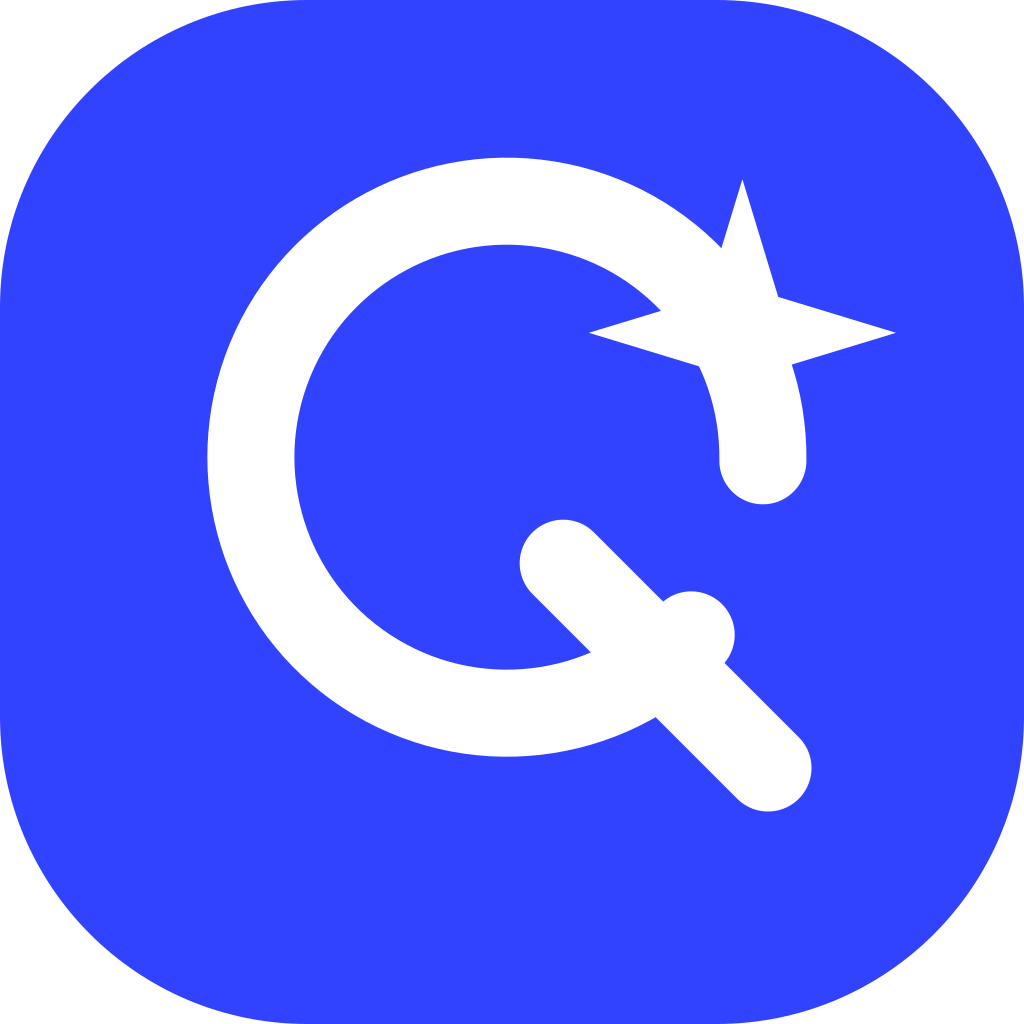
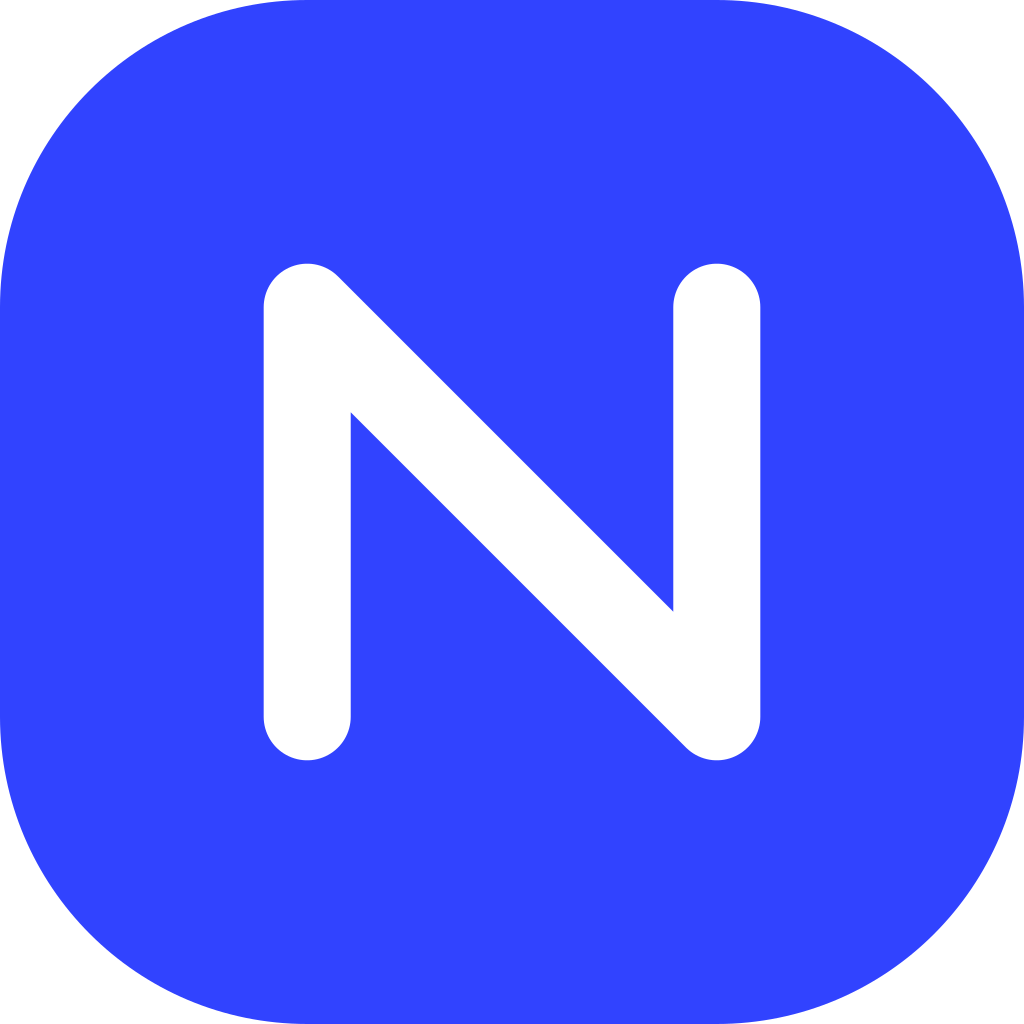
feat(ui): 启用 Nook 界面品牌并精简首页与项目说明

Changed region(s): [[0.1875, 0.1562, 0.875, 0.8125]]

diff --git a/workbench/workbench.tsx b/workbench/workbench.tsx
@@ -92,7 +92,7 @@ export function Workbench() {
   const running = thread?.messages.some((message) => message.status === 'running') ?? false;
   const recent = state ? searchThreads(state.threads.filter((item) => !item.archived), '') : [];
   useEffect(() => {
-    if (!window.qiyao) { report(new Error('请通过 Qiyao 桌面应用打开工作台。')); return; }
+    if (!window.qiyao) { report(new Error('请通过 Nook 桌面应用打开工作台。')); return; }
     const resolved = new Set<string>();
     void window.qiyao.load().then((next) => { setState(next); draftStore.current.initialize(next.composerDrafts); const active = next.threads.find((item) => item.id === next.activeThreadId); const restored = restoreComposer(next, active, draftStore.current.get(active?.id)); draftRef.current = restored; setComposerDraft(restored); }).catch(report);
     void window.qiyao.pendingApprovals().then((pending) => setApprovals((current) => [...current, ...pending.filter((item) => !resolved.has(item.id) && !current.some((known) => known.id === item.id))])).catch(report);
@@ -244,10 +244,10 @@ export function Workbench() {
   const composer = state && <Composer temporary={thread?.temporary} promptTemplates={state.promptTemplates} onPrompt={insertPrompt} key={threadId || 'new'} importContext={`${draftEpoch.current}/${threadId}`} messages={thread?.messages ?? []} attachments={attachments} onAttachments={(files) => updateDraft({ attachments: files })} knowledgeCollections={state.knowledgeCollections} hasNotes={state.notes.length > 0} knowledgeCollectionIds={knowledgeCollectionIds} onKnowledgeCollections={setKnowledgeCollectionIds} plugins={state.plugins} pluginIds={pluginIds} onPlugins={setPluginIds} servers={state.mcpServers} skills={state.skills} serverIds={serverIds} skillIds={skillIds} onServers={setServerIds} onSkills={setSkillIds} providers={state.providers} assistants={state.assistants} projects={state.projects} providerId={providerId} model={model} assistantId={assistantId} projectId={projectId} mode={mode} onMode={setMode} text={text} onText={setText} onProvider={(id) => { setProviderId(id); setModel(state.providers.find((item) => item.id === id)?.models[0] ?? ''); }} onModel={setModel} onAssistant={setAssistantId} onProject={(id) => { setProjectId(id); if (!id) setMode('chat'); }} onSend={send} onStop={() => { void window.qiyao.stop(threadId).catch(report); }} running={running} enterToSend={state.preferences.enterToSend} onCompare={() => setComparison({ draft: structuredClone(draftRef.current), source: thread && structuredClone(thread) })} onViewComparison={thread?.comparison ? () => setComparison({ draft: structuredClone(draftRef.current), source: structuredClone(thread), groupId: thread.comparison!.groupId }) : undefined} onConfigure={() => setSettings(true)} report={report} />;
   const library = state && <KnowledgeLibrary state={state} onState={setState} report={report} onUse={(type, id) => { if (type === 'collection') { newChat(); setKnowledgeCollectionIds([id]); } else { const note = state.notes.find((item) => item.id === id); if (!note) return; const next = `请参考以下资料回答我的问题：\n\n${note.title}\n${note.content}\n\n我的问题：`; if (next.length > 256_000) { report(new Error('这份资料较长，请使用资料集检索并输入问题。')); return; } newChat(); setText(next); } }} />;
   return <div className={`app-shell ${sidebar ? '' : 'sidebar-hidden'}`}>
-    <header className="window-chrome"><div className="window-title"><Emblem size={20} /><span>Qiyao</span></div><div className="window-actions"><IconButton icon="minimize" label="最小化" onClick={() => { void window.qiyao.windowAction('minimize'); }} /><IconButton icon="maximize" label="最大化或还原" onClick={() => { void window.qiyao.windowAction('maximize'); }} /><IconButton icon="close" label="关闭窗口" onClick={() => { void window.qiyao.windowAction('close'); }} /></div></header>
-    {sidebar && <aside className="sidebar"><div className="sidebar-brand"><Emblem size={32} /><div><strong>栖曜</strong><span>你的 AI 工作台</span></div><IconButton icon="panel" label="收起侧边栏" onClick={() => setSidebar(false)} /></div><div className="sidebar-main"><nav className="primary-nav"><Button className={page === 'chat' && !threadId ? 'nav-row selected' : 'nav-row'} onClick={newChat}><Glyph name="compose" />新聊天<kbd>Ctrl N</kbd></Button><Button className="nav-row" disabled={!state || startingTemporary} onClick={() => { void newTemporaryChat(); }}><Glyph name="compose" />临时聊天</Button><Button className="nav-row" onClick={() => setSearch('')}><Glyph name="search" />搜索聊天<kbd>Ctrl K</kbd></Button>{navigation.map((item) => <Button key={item.page} className={`nav-row ${page === item.page ? 'selected' : ''}`} onClick={() => setPage(item.page)}><Glyph name={item.icon} />{item.label}</Button>)}</nav><div className="sidebar-section-label">最近聊天<span>{recent.length || ''}</span></div><div className="thread-list">{recent.slice(0, 100).map((item) => <Button key={item.id} className={`thread-row ${threadId === item.id && page === 'chat' ? 'selected' : ''}`} onClick={() => openThread(item)}>{item.pinned && <Glyph name="pin" size={12} />}<span>{item.temporary ? `临时 · ${item.title}` : item.title}</span>{item.messages.some((message) => message.status === 'running') && <span className="stream-dot" />}</Button>)}{recent.length === 0 && <p className="sidebar-empty">开始第一段对话，<br />想法会留在这里。</p>}</div></div><footer className="sidebar-footer"><Button className="nav-row" onClick={() => setPage('archive')}><Glyph name="archive" />已归档</Button><Button className="nav-row" onClick={() => setSettings(true)}><Glyph name="settings" />设置<kbd>Ctrl ,</kbd></Button><div className="local-indicator"><span className="status-dot" />本地工作台<span>QIYAO</span></div></footer></aside>}
+    <header className="window-chrome"><div className="window-title"><Emblem size={20} /><span>Nook</span></div><div className="window-actions"><IconButton icon="minimize" label="最小化" onClick={() => { void window.qiyao.windowAction('minimize'); }} /><IconButton icon="maximize" label="最大化或还原" onClick={() => { void window.qiyao.windowAction('maximize'); }} /><IconButton icon="close" label="关闭窗口" onClick={() => { void window.qiyao.windowAction('close'); }} /></div></header>
+    {sidebar && <aside className="sidebar"><div className="sidebar-brand"><Emblem size={32} /><div><strong>Nook</strong></div><IconButton icon="panel" label="收起侧边栏" onClick={() => setSidebar(false)} /></div><div className="sidebar-main"><nav className="primary-nav"><Button className={page === 'chat' && !threadId ? 'nav-row selected' : 'nav-row'} onClick={newChat}><Glyph name="compose" />新聊天<kbd>Ctrl N</kbd></Button><Button className="nav-row" disabled={!state || startingTemporary} onClick={() => { void newTemporaryChat(); }}><Glyph name="compose" />临时聊天</Button><Button className="nav-row" onClick={() => setSearch('')}><Glyph name="search" />搜索聊天<kbd>Ctrl K</kbd></Button>{navigation.map((item) => <Button key={item.page} className={`nav-row ${page === item.page ? 'selected' : ''}`} onClick={() => setPage(item.page)}><Glyph name={item.icon} />{item.label}</Button>)}</nav><div className="sidebar-section-label">最近聊天<span>{recent.length || ''}</span></div><div className="thread-list">{recent.slice(0, 100).map((item) => <Button key={item.id} className={`thread-row ${threadId === item.id && page === 'chat' ? 'selected' : ''}`} onClick={() => openThread(item)}>{item.pinned && <Glyph name="pin" size={12} />}<span>{item.temporary ? `临时 · ${item.title}` : item.title}</span>{item.messages.some((message) => message.status === 'running') && <span className="stream-dot" />}</Button>)}{recent.length === 0 && <p className="sidebar-empty">暂无聊天</p>}</div></div><footer className="sidebar-footer"><Button className="nav-row" onClick={() => setPage('archive')}><Glyph name="archive" />已归档</Button><Button className="nav-row" onClick={() => setSettings(true)}><Glyph name="settings" />设置<kbd>Ctrl ,</kbd></Button><div className="local-indicator"><span className="status-dot" />本地工作台<span>NOOK</span></div></footer></aside>}
     <main className="workspace"><header className="workspace-header"><div>{!sidebar && <IconButton icon="panel" label="展开侧边栏" onClick={() => setSidebar(true)} />}{page === 'chat' ? thread ? <Button className="thread-title" title={thread.title} onClick={() => setRenaming(thread.title)}><span>{thread.title}</span><Glyph name="down" size={14} /></Button> : <span className="muted">新聊天</span> : <span>{page === 'plugin' ? panelPlugin?.manifest.panels.find((panel) => panel.id === pluginPanel.panelId)?.title ?? '插件面板' : navigation.find((item) => item.page === page)?.label ?? '已归档'}</span>}</div><div className="header-actions"><IconButton icon="search" label="打开命令面板" disabled={!state} onClick={() => setSearch('>')} />{page === 'chat' && thread && state && <><IconButton icon="find" label="查找当前聊天" onClick={() => setFindRequest((value) => value + 1)} />{originalThread && <IconButton icon="branch" label="打开原对话" onClick={() => openThread(originalThread)} />}<BranchNavigation onReorder={reorderBranch} key={thread.id} thread={thread} threads={state.threads} onSelect={async (id) => { await flushDrafts(); await openReplyVersion(id); }} /><IconButton icon="pin" label={thread.pinned ? '取消置顶' : '置顶聊天'} disabled={running} onClick={() => { void mutate({ ...thread, pinned: !thread.pinned }); }} /><IconButton icon="download" label="导出聊天" onClick={() => { void window.qiyao.exportThread(thread.id).catch(report); }} /><IconButton icon="archive" label={thread.archived ? '取消归档' : '归档聊天'} disabled={running} onClick={() => { void mutate({ ...thread, archived: !thread.archived }); }} /><IconButton icon="trash" label="删除聊天" disabled={running} onClick={() => setDeleteId(thread.id)} /></>}</div></header>
-    {!state ? <div className="startup"><Emblem size={56} /><p>{error || '正在打开你的工作台…'}</p></div> : page === 'chat' ? thread ? <div className="chat-page"><Transcript findRequest={findRequest} onFindClose={() => setFindRequest(0)} thread={thread} threads={state.threads} onVersion={openReplyVersion} onEdit={(message) => { void openMessageEditor(message).catch(report); }} onQuote={quote} onBranch={(message) => { void branch(message); }} onRetry={() => { void retry(); }} report={report} /><div className="composer-dock">{composer}</div></div> : <div className="home"><div className="home-content"><div className="home-mark"><Emblem size={48} /></div><h1>让想法，有处落地。</h1><p className="home-description">写作、研究、构建，在同一个工作台。</p>{composer}<div className="suggestions">{[{ icon: 'assistant', label: '理清一个想法', prompt: '我有一个想法，想请你帮我梳理。请先问我几个关键问题。' }, { icon: 'compose', label: '一起写点什么', prompt: '请帮我完善一段文字。我会提供初稿和希望的风格。' }, { icon: 'code', label: '开始一个项目', prompt: '我想开始一个新项目。请帮我明确需求，规划实现步骤。' }].map((item) => <Button key={item.label} onClick={() => setText(item.prompt)}><Glyph name={item.icon as GlyphName} size={16} />{item.label}</Button>)}</div></div><div className="home-footnote"><span>留给专注的空间。</span><span>Qiyao Workspace</span></div></div> : page === 'plugin' ? pluginContent : page === 'projects' ? <Projects view={projectView} onView={setProjectView} state={state} onState={setState} onUse={(id) => { newChat(); setProjectId(id); }} report={report} /> : page === 'library' ? library : page === 'automations' ? <AutomationsPage state={state} onState={setState} report={report} onOpen={setRequestedTaskThread} /> : page === 'assistants' ? <Collections onPrompt={insertPrompt} state={state} onState={setState} report={report} onUse={(id) => { newChat(); setAssistantId(id); }} /> : <div className="collection-page"><div className="page-heading"><div><h1>已归档</h1><p>为重要的对话留一个安静的地方。</p></div></div>{state.threads.filter((item) => item.archived).length ? state.threads.filter((item) => item.archived).map((item) => <div className="list-row" key={item.id}><Button className="row-content" onClick={() => openThread(item)}><strong>{item.title}</strong><span>{item.messages.length} 条消息</span></Button><Button onClick={() => { void mutate({ ...item, archived: false }); }}>恢复聊天</Button></div>) : <Empty icon="archive" title="暂无归档聊天" detail="归档后，对话会从最近聊天移到这里。" />}</div>}
+    {!state ? <div className="startup"><Emblem size={56} /><p>{error || '正在打开你的工作台…'}</p></div> : page === 'chat' ? thread ? <div className="chat-page"><Transcript findRequest={findRequest} onFindClose={() => setFindRequest(0)} thread={thread} threads={state.threads} onVersion={openReplyVersion} onEdit={(message) => { void openMessageEditor(message).catch(report); }} onQuote={quote} onBranch={(message) => { void branch(message); }} onRetry={() => { void retry(); }} report={report} /><div className="composer-dock">{composer}</div></div> : <div className="home"><div className="home-content"><h1>今天想做些什么？</h1><p className="home-description">提问、整理资料，或开始一个项目。</p>{composer}<div className="suggestions">{[{ icon: 'assistant', label: '理清一个想法', prompt: '我有一个想法，想请你帮我梳理。请先问我几个关键问题。' }, { icon: 'compose', label: '一起写点什么', prompt: '请帮我完善一段文字。我会提供初稿和希望的风格。' }, { icon: 'code', label: '开始一个项目', prompt: '我想开始一个新项目。请帮我明确需求，规划实现步骤。' }].map((item) => <Button key={item.label} onClick={() => setText(item.prompt)}><Glyph name={item.icon as GlyphName} size={16} />{item.label}</Button>)}</div></div><div className="home-footnote"><span>回答可能有误，请核实重要信息。</span></div></div> : page === 'plugin' ? pluginContent : page === 'projects' ? <Projects view={projectView} onView={setProjectView} state={state} onState={setState} onUse={(id) => { newChat(); setProjectId(id); }} report={report} /> : page === 'library' ? library : page === 'automations' ? <AutomationsPage state={state} onState={setState} report={report} onOpen={setRequestedTaskThread} /> : page === 'assistants' ? <Collections onPrompt={insertPrompt} state={state} onState={setState} report={report} onUse={(id) => { newChat(); setAssistantId(id); }} /> : <div className="collection-page"><div className="page-heading"><div><h1>已归档</h1><p>为重要的对话留一个安静的地方。</p></div></div>{state.threads.filter((item) => item.archived).length ? state.threads.filter((item) => item.archived).map((item) => <div className="list-row" key={item.id}><Button className="row-content" onClick={() => openThread(item)}><strong>{item.title}</strong><span>{item.messages.length} 条消息</span></Button><Button onClick={() => { void mutate({ ...item, archived: false }); }}>恢复聊天</Button></div>) : <Empty icon="archive" title="暂无归档聊天" detail="归档后，对话会从最近聊天移到这里。" />}</div>}
     </main>
     {error && state && <Toast message={error} onClose={() => setError('')} />}
     {comparison && state && <ModelComparison state={state} draft={comparison.draft} groupId={comparison.groupId} onClose={() => setComparison(null)} onCompare={compareModels} onOpen={async (id) => { await flushDrafts(); await openReplyVersion(id); }} />}

diff --git a/workbench/pages/preferences.tsx b/workbench/pages/preferences.tsx
@@ -28,7 +28,7 @@ export function PreferencesDialog({ state, onState, onRestore, onClose, report, 
   function updateProvider(field: keyof Provider, value: string) {
     setEditing((current) => current ? { ...current, [field]: value, ...(field === 'endpoint' && value !== current.endpoint ? { modelCatalog: undefined } : {}) } : null);
   }
-  const tabs = [{ id: 'models', label: '模型连接', icon: 'assistant' }, { id: 'mcp', label: 'MCP 工具', icon: 'code' }, { id: 'skills', label: '本地技能', icon: 'library' }, { id: 'plugins', label: '本地插件', icon: 'code' }, { id: 'appearance', label: '外观与交互', icon: 'sun' }, { id: 'data', label: '数据与备份', icon: 'download' }, { id: 'about', label: '关于栖曜', icon: 'settings' }] as const;
+  const tabs = [{ id: 'models', label: '模型连接', icon: 'assistant' }, { id: 'mcp', label: 'MCP 工具', icon: 'code' }, { id: 'skills', label: '本地技能', icon: 'library' }, { id: 'plugins', label: '本地插件', icon: 'code' }, { id: 'appearance', label: '外观与交互', icon: 'sun' }, { id: 'data', label: '数据与备份', icon: 'download' }, { id: 'about', label: '关于 Nook', icon: 'settings' }] as const;
   return <Modal title="设置" onClose={onClose}><div className="settings-layout"><nav className="settings-nav" aria-label="设置分类">{tabs.map((item) => <Button key={item.id} className={tab === item.id ? 'selected' : ''} onClick={() => { setTab(item.id); setEditing(null); }}><Glyph name={item.icon} size={16} />{item.label}</Button>)}</nav><section className="settings-detail">
     {tab === 'models' && (editing ? <>
       <div className="section-heading"><Button disabled={busy} onClick={() => setEditing(null)}>← 返回连接列表</Button><span className="muted">{editing.hasKey ? '密钥已保存在系统中' : '新连接'}</span></div>
@@ -48,7 +48,7 @@ export function PreferencesDialog({ state, onState, onRestore, onClose, report, 
     </>)}
     {tab === 'appearance' && <><h3>外观与交互</h3><p className="muted">让工作台适合你的工作方式。</p><Field label="主题"><Select value={state.preferences.theme} onChange={(event) => { void act(() => window.qiyao.savePreferences({ ...state.preferences, theme: event.target.value as Workspace['preferences']['theme'] }), onState); }}><option value="system">跟随系统</option><option value="light">浅色</option><option value="dark">深色</option></Select></Field><Toggle label="按 Enter 发送消息" checked={state.preferences.enterToSend} onChange={(value) => { void act(() => window.qiyao.savePreferences({ ...state.preferences, enterToSend: value }), onState); }} /><div className="shortcut-list"><h4>键盘快捷键</h4><div>新聊天 <kbd>Ctrl N</kbd></div><div>搜索与命令 <kbd>Ctrl K</kbd></div><div>设置 <kbd>Ctrl ,</kbd></div><div>切换侧边栏 <kbd>Ctrl B</kbd></div><div>切换最近聊天 <kbd>Alt 1–9</kbd></div></div><DesktopSettings state={state} onState={onState} report={report} /></>}
     {tab === 'data' && <><h3>数据与备份</h3><p className="muted">对话、项目、助手与资料保存在本机。</p><div className="settings-row"><div><strong>导出工作台</strong><p>默认保存压缩备份，也可选择 JSON；完整内容不包含 API 密钥。</p></div><Button disabled={busy} onClick={() => { void act(() => window.qiyao.exportWorkspace()); }}>导出备份…</Button></div><div className="settings-row"><div><strong>恢复工作台</strong><p>支持 JSON 与压缩备份，操作前会确认替换范围。</p></div><Button disabled={busy} onClick={() => { void act(() => window.qiyao.importWorkspace(), (next) => { if (next) onRestore(next); }); }}>恢复备份…</Button></div><p className="field-hint">完整内容上限 256 MB，压缩文件上限 64 MB。单个聊天可在聊天顶部导出为 Markdown。</p>{busy && <p className="field-hint" role="status">正在处理备份…</p>}</>}
-    {tab === 'about' && <div className="about"><Emblem size={64} /><h3>栖曜 Qiyao</h3><p>让想法有处落地。</p><span className="muted">0.1.0-alpha.1 · 开发中</span><p className="field-hint">一个本地 AI 工作台。你的模型，你的项目，你的工作方式。</p></div>}
+    {tab === 'about' && <div className="about"><Emblem size={64} /><h3>Nook</h3><p>本地 AI 工作台</p><span className="muted">0.1.0-alpha.1 · 开发中</span><p className="field-hint">一个本地 AI 工作台。你的模型，你的项目，你的工作方式。</p></div>}
     {tab === 'mcp' && <McpSettings state={state} onState={onState} report={report} onUse={onUseContent} />}
     {tab === 'skills' && <SkillSettings state={state} onState={onState} report={report} onUse={onUseContent} />}
     {tab === 'plugins' && <PluginSettingsPage state={state} onState={onState} report={report} onOpenPanel={onOpenPanel} />}

diff --git a/workbench/theme/surfaces.css b/workbench/theme/surfaces.css
@@ -95,9 +95,9 @@ kbd { font-family: inherit; font-size: 10px; color: var(--ds-text-tertiary); whi
 .sidebar { display: flex; flex-direction: column; padding: 12px 8px 8px; background: var(--ds-bg-secondary); min-height: 0; }
 .sidebar-main { display: flex; flex: 1; flex-direction: column; min-height: 0; overflow-y: auto; }
 .sidebar-brand, .primary-nav, .sidebar-section-label, .sidebar-footer { flex-shrink: 0; }
-.sidebar-brand { display: flex; align-items: center; gap: 10px; padding: 10px 12px 22px; }
+.sidebar-brand { display: flex; align-items: center; gap: 10px; padding: 8px 12px 20px; }
 .sidebar-brand > div { flex: 1; display: flex; flex-direction: column; }
-.sidebar-brand strong { font-size: 16px; }
+.sidebar-brand strong { font-size: 18px; letter-spacing: -.5px; }
 .sidebar-brand span { font-size: 10px; color: var(--ds-text-tertiary); }
 .sidebar-brand .icon-button { color: var(--ds-text-secondary); }
 .primary-nav { display: flex; flex-direction: column; gap: 2px; }
@@ -120,10 +120,10 @@ kbd { font-family: inherit; font-size: 10px; color: var(--ds-text-tertiary); whi
 .thread-title > span { min-width: 0; overflow: hidden; text-overflow: ellipsis; white-space: nowrap; }
 .header-actions { flex-shrink: 0; color: var(--ds-text-secondary); }
 .home { display: flex; flex-direction: column; flex: 1; padding: 0 36px; min-height: 0; overflow-y: auto; }
-.home-content { width: min(100%, 760px); margin: auto; padding: 60px 0 100px; }
-.home-mark { margin-bottom: 24px; }
-.home h1 { font-size: 32px; font-weight: 590; letter-spacing: -1.1px; line-height: 1.3; }
-.home-description { color: var(--ds-text-secondary); font-size: 14px; margin: 12px 0 32px; }
+.home-content { width: min(100%, 768px); margin: auto; padding: 40px 0 96px; }
+.home h1 { font-size: 28px; font-weight: 590; letter-spacing: -.5px; line-height: 1.4; text-align: center; }
+.home-description { color: var(--ds-text-secondary); font-size: 14px; margin: 12px 0 28px; text-align: center; }
+.home .composer > textarea { min-height: 88px; }
 .composer-wrap { width: 100%; }
 .composer { padding: 14px 12px 10px; border-radius: var(--composer-radius); background: color-mix(in srgb, var(--ds-bg) 90%, transparent); box-shadow: var(--elevation-composer); backdrop-filter: blur(16px); }
 [data-theme="dark"] .composer { background: color-mix(in srgb, var(--ds-bg-elevated) 60%, var(--ds-bg)); box-shadow: var(--elevation-composer-dark), 0 0 0 1px var(--ds-border); }
@@ -153,9 +153,9 @@ kbd { font-family: inherit; font-size: 10px; color: var(--ds-text-tertiary); whi
 .attachment-text-preview { margin: 0; white-space: pre-wrap; overflow-wrap: anywhere; font-family: var(--font-mono); font-size: 12px; line-height: 1.7; }
 .user-bubble .attachments { margin: 8px 0 0; }
 .composer[data-composer-drag-active] { background: var(--ds-bg-tertiary); box-shadow: 0 0 0 2px var(--ds-accent); }
-.suggestions { display: flex; justify-content: center; gap: 12px; margin-top: 22px; flex-wrap: wrap; }
-.suggestions .button { color: var(--ds-text-secondary); border: 1px solid var(--ds-border); border-radius: 999px; padding: 8px 14px; font-size: 12px; }
-.home-footnote { display: flex; justify-content: space-between; width: 100%; padding: 0 0 22px; font-size: 10px; color: var(--ds-text-tertiary); }
+.suggestions { display: flex; justify-content: center; gap: 8px; margin-top: 20px; flex-wrap: wrap; }
+.suggestions .button { color: var(--ds-text-secondary); border: 1px solid var(--ds-border); border-radius: 999px; padding: 8px 14px; font-size: 12px; min-height: 36px; }
+.home-footnote { display: flex; justify-content: center; width: 100%; padding: 0 0 16px; font-size: 11px; color: var(--ds-text-tertiary); }
 .chat-page { flex: 1; display: flex; flex-direction: column; min-height: 0; }
 .transcript-region { flex: 1; min-height: 0; position: relative; display: flex; overflow: hidden; }
 .transcript-scroll { flex: 1; overflow-y: auto; min-height: 0; overscroll-behavior: contain; scroll-padding: 24px; mask-image: linear-gradient(to bottom, transparent 0, black var(--top-fade, 0px), black calc(100% - var(--bottom-fade, 0px)), transparent 100%); }

diff --git a/workbench/components/glyphs.tsx b/workbench/components/glyphs.tsx
@@ -3,9 +3,7 @@ import type { CSSProperties } from 'react';
 export function Emblem({ size = 28 }: { size?: number }) {
   return <svg width={size} height={size} viewBox="0 0 40 40" fill="none" aria-hidden="true">
     <rect width="40" height="40" rx="12" fill="#3143FF" />
-    <path d="M27 24.8A10 10 0 1 1 29.8 18" stroke="white" strokeWidth="3.4" strokeLinecap="round" />
-    <path d="m22 22 8 8" stroke="white" strokeWidth="3.4" strokeLinecap="round" />
-    <path d="m29 7 1.4 4.6L35 13l-4.6 1.4L29 19l-1.4-4.6L23 13l4.6-1.4L29 7Z" fill="white" />
+    <path d="M12 28V12L28 28V12" stroke="white" strokeWidth="3.4" strokeLinecap="round" strokeLinejoin="round" />
   </svg>;
 }
 

diff --git a/workbench/index.html b/workbench/index.html
@@ -4,7 +4,7 @@
     <meta charset="UTF-8" />
     <meta name="viewport" content="width=device-width, initial-scale=1.0" />
     <meta http-equiv="Content-Security-Policy" content="default-src 'self'; script-src 'self'; worker-src 'self' blob:; style-src 'self' 'unsafe-inline'; img-src 'self' data:; font-src 'self'; frame-src 'self' qiyao-plugin:; connect-src 'self' ws://localhost:* http://localhost:*" />
-    <title>栖曜 Qiyao</title>
+    <title>Nook</title>
   </head>
   <body><div id="root"></div><script type="module" src="/entry.tsx"></script></body>
 </html>

diff --git a/README.md b/README.md
@@ -1,91 +1,58 @@
-# 栖曜 Qiyao
+# Nook
 
-把对话、项目和助手放在同一个本地工作台。
+本地 AI 工作台。连接模型，处理资料，推进项目。
 
-对话分支支持调整同层顺序和恢复时间顺序，移动时保留完整子路径及独立草稿。操作与保存方式见 [分支顺序](docs/BRANCH-ORDER.md)。
+> 开发中的 Windows 桌面应用，尚未发布正式版本。界面与品牌正在更新。
 
-输入框可将同一问题、完整上下文和附件同时发送给 2–4 个已配置模型，独立查看、停止或打开各条回复继续聊天，保留原有草稿。比较记录继承普通／临时聊天的保存方式，见 [模型比较](docs/MODEL-COMPARISON.md)。
+## 一个窗口，完成日常工作
 
-这是在开源基础上独立开发的本地工作台。目前处于开发阶段，正式发布前需完成能力整合、端到端验证和安装包验证。原始开源许可证与法律来源完整保留，见 [许可证说明](docs/LICENSES.md)。
+| 工作 | 可以做什么 |
+| --- | --- |
+| 对话 | 连接多个模型，比较回复，编辑消息，沿分支继续讨论 |
+| 资料 | 导入文档与图片，检索资料集，查看回答引用的原文 |
+| 项目 | 浏览文件、编辑代码、审阅 Git 改动、使用项目终端 |
+| 助手 | 保存工作指令与提示模板，连接 MCP，加载本地技能 |
+| 自动任务 | 安排一次、周期或 Cron 任务，查看执行结果 |
 
-已接通本地聊天、模型配置、项目分析、多文件代码编辑、Git 审阅与提交，以及交互式项目终端。项目分析会调用文件读取、内容搜索等工具，展示执行过程并保存结果。支持原生 Responses、OpenAI 兼容接口、Anthropic、Gemini、Azure 和 Ollama。Gemini 保留签名工具续接；Azure 支持 v1 Responses、v1 Chat 及指定版本的部署接口。设置与验证范围见 [模型连接文档](docs/MODEL-CONNECTIONS.md)。
+支持 OpenAI 兼容接口、Responses、Anthropic、Gemini、Azure 和 Ollama。文件修改与命令执行会展示审批内容。
 
-助手回复可查看每次请求的 token 用量，工具续接分别记录，缓存与推理显示明细。缺失计数保持未知，失败或中断时保留已收到的数据。模型容量可使用服务明确提供的资料或手动设置，输出预算进入实际请求；聊天底部显示容量和最近请求的输入计数，发送前的精确 token 计算仍待实现。
+## 开始使用
 
-附件支持文件选择、拖放和图片粘贴。PDF、Office 与 OpenDocument 会提取本地文本；PNG、JPEG、WebP 和 GIF 可预览并以原生图片格式发送给支持图片输入的模型。附件随聊天草稿、对话和完整备份保留，格式与大小限制见 [附件文档](docs/ATTACHMENTS.md)。
-
-资料库支持文档导入、资料集、本地关键词及语义／混合检索。可独立设置嵌入连接和模型，在聊天中选择资料集，查看回复使用的原文片段和来源标记。索引可停止，失败重建保留原索引；已发送的来源快照随对话和备份保存。使用方法与验证范围见 [资料库文档](docs/KNOWLEDGE.md)。
-
-执行任务模式可提出文件修改并运行验证命令。每次修改和命令都有独立的审批预览；文件版本变化会阻止覆盖，停止命令会清理其创建的进程。
-
-助手配置可单独或全部导出为 JSON／gzip JSON，导入前可查看完整工作指令。确认后添加新助手，保留同名的原有配置；共享文件只包含名称、简介和指令。删除助手会清除对应选择，保留对话和草稿文字。格式、限额和验证范围见 [助手文档](docs/ASSISTANTS.md)。
-
-提示模板可在助手页面管理，也可从聊天输入栏使用。填写 `{{名称}}` 变量后查看完整预览，再追加到现有草稿，保留附件及模型选择；模板不会自动发送消息。模板随完整工作台备份保存，语法、限额和验证范围见 [提示模板文档](docs/PROMPT-TEMPLATES.md)。
-
-用户消息可编辑后在新分支中重发，也可和助手回复一样选择“仅保存”；编辑前的完整对话保留，手动修改会标记，各消息的编辑草稿可在退出后恢复。行为及限制见 [消息编辑文档](docs/MESSAGE-EDITS.md)。引用支持整条消息或选中的段落，会追加到现有草稿；重新生成会先校验模型配置和历史版本，见 [对话文档](docs/CONVERSATIONS.md)。
-
-重新生成会保留旧回复，可从“版本”预览并打开已有结果，再沿所选版本继续聊天；各条路径的后续消息和草稿独立保存，旧回复也可在“已归档”管理。模型、用量、工具证据与版本关系随完整备份保存，见 [回复版本文档](docs/REPLY-VERSIONS.md)。
-
-顶部“查看对话分支”按关系浏览同组的编辑分支、回复版本和编辑前记录，支持搜索、分页及纯文本预览。切换先保存当前草稿，原对话删除后保留其他路径；原有“打开原对话”入口继续可用。使用方法与验证范围见 [对话分支文档](docs/CONVERSATION-BRANCHES.md)。
-
-长对话可通过左侧消息导航轨跳转，悬停查看预览，也可拖动或用键盘定位。`Ctrl F` 查找当前聊天正文，支持行内格式与代码块定位、前后结果切换；查找不发送请求，不消费草稿或附件。使用方法见 [聊天导航文档](docs/CHAT-NAVIGATION.md)。
-
-普通聊天的未发送草稿按对话分别保存，保留文本、附件和模型、助手、项目及工具选择。切换对话不会带走其他对话的附件，正常退出后会恢复普通对话与草稿。发送成功后清理对应草稿；保存失败时保留输入，关闭和备份也会先等待草稿保存。
-
-侧边栏可创建临时聊天，消息、附件、草稿、分支和回复版本只在本次应用运行期间保留，不进入本机聊天历史或工作台备份；退出应用后清除。模型服务仍会收到消息，主动导出、工具及插件操作保留各自结果。保存范围与验证见 [临时聊天文档](docs/TEMPORARY-CHATS.md)。
-
-完整工作台可导出为压缩备份或普通 JSON，保留附件、资料库索引、来源快照和本地扩展资产，配置的密钥不进入备份。读写校验实际大小，保存失败保留原文件；格式、大小与恢复规则见 [备份文档](docs/BACKUPS.md)。
-
-自动任务可安排一次执行、固定间隔或带时区的 Cron，复用模型、助手、项目与资料集。执行记录可打开结果对话，支持立即执行、暂停计划、停止和超时；工具继续按实际操作审批，未发送的草稿保持独立。重启和备份恢复规则见 [自动任务文档](docs/AUTOMATIONS.md)。
-
-可在外观与交互中启用系统托盘和全局唤起快捷键。关闭到后台仍会保存草稿，自动计划继续执行；托盘退出会停止任务并退出软件。快捷键冲突或设置保存失败会保留原设置，完整备份恢复后需要重新启用。行为与验证范围见 [桌面入口文档](docs/DESKTOP-INTEGRATION.md)。
-
-`Ctrl K` 可搜索聊天和命令，`Ctrl Shift P` 或前缀 `>` 只搜索命令；支持键盘选择、页面导航、主题和当前聊天操作。插件命令先预览参数和可用项目，再明确执行，沿用已有权限。搜索与导航保留未发送的草稿，使用方法见 [命令与快捷键文档](docs/COMMANDS.md)。
-
-回复支持行内及独立公式、代码语法高亮和 Mermaid 图表。代码可复制，图表可切换源码；无法绘制时保留完整源码。公式字体使用提供的本地素材，代码颜色随浅色、深色主题切换。行为及限制见 [内容显示文档](docs/RICH-CONTENT.md)。
-
-项目编辑器使用本地打包的 Monaco，支持代码高亮、查找替换、多标签和 Ctrl S 保存。草稿自动保存在工作台，退出时补齐最后的输入；磁盘文件被其他操作修改后，需要先比较内容。Git 面板可分别审阅工作区和暂存区，仅提交已暂存内容。终端使用 xterm 与真实 PTY，支持多会话、尺寸调整、重载回放及关闭时清理其子进程。
-
-项目文件树支持逐级展开、键盘导航、定位当前文件和在选中目录新建文件，也可收起面板，为编辑器留出空间。每个目录分批加载，保留完整清单；目录变化时拒绝过期分页并允许重试。使用方法与验证边界见 [项目文档](docs/PROJECTS.md)。
-
-MCP 可连接本地程序、HTTP 和 SSE 服务器，发现工具并手动测试，也可浏览资源、填写 URI 模板和加载提示词。预览内容可加入消息草稿后修改；模型读取远端资源、获取提示词或执行工具时，需要审批具体参数。停用、断开或更改配置会使原调用失效。
-
-远端 MCP 支持访问令牌和 OAuth 登录，可动态注册或填写预注册客户端。点击登录后在浏览器授权，令牌可自动刷新；需要重新登录时会显示入口。访问令牌、环境变量、客户端密钥和登录令牌使用系统加密存储，备份不包含这些凭据，自动连接需要主动开启。
-
-本地技能导入完整 SKILL.md 文件夹，保留参考文件、脚本、二进制资产和许可证。模型按需加载技能说明与文本参考文件，导入和读取不会执行脚本。工作台备份包含技能配套文件，恢复时创建新目录并同步对话选择。
-
-本地插件使用独立的 qiyao-plugin.json 清单，导入后默认停用。启用时按项授权工具、命令、面板、存储、项目访问及声明地址的联网能力。插件在没有 Node 权限的隔离窗口中运行；模型调用需要审批，项目写入另行展示实际内容。面板与工作台使用不同来源，不能直接读取工作台或项目。插件备份包含完整文件和许可证，恢复后需要重新启用及授权。格式和限制见 [插件文档](docs/PLUGINS.md)，更广泛的扩展贡献仍在开发中。
-
-## 开发
-
-需要 Node.js 24 或更新版本。
-
-Git 操作需要系统安装 Git。Windows 终端使用 PowerShell；原生终端依赖固定版本的 Node-API 模块，Windows 打包使用已经过 Electron 验证的上游预构建二进制。
+目前请从源码运行。需要 Node.js 24、pnpm 10.32.1；项目操作另需 Git，Windows 终端使用 PowerShell。
 
 ```sh
 pnpm install
 pnpm exec install-electron
 pnpm dev
+```
+
+打开「设置 → 模型连接」，添加服务地址、凭据和模型，然后创建聊天。使用本地 Ollama 时，需要先启动对应服务。
+
+## 数据归你管理
+
+聊天、草稿和项目配置保存在本机。模型请求会发送至你选择的服务；本地保存不等于离线推理。凭据使用系统加密存储，完整备份不包含密钥。
+
+临时聊天在退出应用后清除，不进入聊天历史或备份；主动导出和工具操作产生的文件仍会保留。
+
+## 文档
+
+- [模型连接](docs/MODEL-CONNECTIONS.md) · [附件](docs/ATTACHMENTS.md) · [资料库](docs/KNOWLEDGE.md)
+- [项目](docs/PROJECTS.md) · [对话分支](docs/CONVERSATION-BRANCHES.md) · [模型比较](docs/MODEL-COMPARISON.md)
+- [助手](docs/ASSISTANTS.md) · [自动任务](docs/AUTOMATIONS.md) · [插件](docs/PLUGINS.md)
+- [备份与恢复](docs/BACKUPS.md) · [快捷键](docs/COMMANDS.md) · [发布状态](docs/RELEASE.md)
+
+## 开发与验证
+
+```sh
 pnpm check
 pnpm test:coverage
 pnpm build
 ```
 
-Windows 桌面验证运行 `pnpm test:desktop`，需要 Git、PowerShell 和 Google Chrome。测试使用独立数据目录和浏览器实例。
+Windows 桌面验证：`pnpm test:desktop`，需要 Git、PowerShell 和 Google Chrome。生成 Windows 安装包：`pnpm package:win`。
 
-验证 Windows 打包版本时，先运行 `pnpm package:dir`，再通过 PowerShell 明确指定可执行文件；结果记录中的 `variant` 应为 `packaged executable`：
+界面按照指定的桌面设计资料逐项调整，目前尚未完整还原。已采用明暗主题与参考设计变量；UI 字体使用 OFL 许可的 Inter 和系统中文字体。品牌更新期间，内部兼容标识及历史验证记录仍保留原名。
 
-```powershell
-$env:QIYAO_TEST_EXECUTABLE = (Resolve-Path artifacts/win-unpacked/Qiyao.exe).Path
-try { pnpm test:desktop } finally { Remove-Item Env:QIYAO_TEST_EXECUTABLE }
-```
+## 开源许可
 
-## 设计
-
-界面遵循指定的桌面设计规范：中性灰表面、单一蓝色强调、4px 间距、40px 侧栏行、24px Composer 圆角、明暗主题、统一控件和减少动效支持。应用图标与功能图标使用独立设计。正文和图表使用 OFL 许可的 Inter 字体替代参考素材中的专有字体；中文保留系统字体回退。
-
-## 数据
-
-数据保存在系统应用数据目录。密钥通过系统加密存储，备份不包含密钥。模型请求从桌面主进程发出。
-
-上游开源许可证原文及第三方法律声明会随应用保留。依赖清单和打包审计见 [许可证说明](docs/LICENSES.md)。界面使用可开源分发的 Inter、Carlito 及公式字体，原始许可证均完整保留。新版安装／便携包已通过实际运行、文件完整性和保留用户数据的卸载检查；其余功能与 UI 验收、独立源码和托管流水线仍在推进。
+基于开源项目独立开发，保留原始许可证与来源声明。详见 [LICENSE](LICENSE)、[COPYING](COPYING) 和 [第三方许可说明](docs/LICENSES.md)。

diff --git a/docs/DESIGN-ALIGNMENT.md b/docs/DESIGN-ALIGNMENT.md
@@ -1,0 +1,22 @@
+# 设计对照
+
+参考资料：用户提供的 `C:\Users\18468\Desktop\txt`。本文件记录实际实现和差异，不代表已经完成全部还原。
+
+| 参考 | 当前实现 | 尚需完成 |
+| --- | --- | --- |
+| `DESIGN.md`、`tokens.css`：中性灰、蓝色强调、明暗主题 | `workbench/theme/reference-tokens.css` 与 `surfaces.css` | 逐页核对语义色，清理局部硬编码 |
+| 首页：大输入框和工具栏 | 居中标题、输入框、任务建议；取消重复品牌图和宣传页脚 | 输入框工具分组、窄窗口操作密度 |
+| 侧栏：240–280px、40px 导航行 | 默认 264px，40px 导航行 | 窄窗口与缩放时的折叠行为 |
+| `控件完整规范.txt`：输入、选择、菜单、开关 | 已有共享控件与参考尺寸 | 原生选择器与弹出列表尚非完整还原 |
+| `组件规范.txt`：对话框、设置、消息和项目面板 | 已有对应页面 | 对各页面分别截图、核对层级和留白 |
+| `字体规范.txt`：OpenAI Sans | Inter + 系统中文字体 | 明确的字体差异，不能计为一致 |
+| `icons/svg`、`brand` | 独立线性功能图标、Nook 字母图标 | 品牌为独立设计，功能图标尚需逐项对照 |
+| `交互设计.txt` | 已有快捷键、悬停、焦点、减少动效支持 | 逐项核对交互清单，不能仅凭样式变量认定完成 |
+
+## 品牌更新
+
+新显示名称为 **Nook**。先更新界面和文档，再统一系统入口、安装产物和发布元数据。已有数据目录、插件协议和备份格式需要兼容处理；历史验证记录描述的是当时的版本，不应替换为新品牌后当作新版证据。
+
+## 验收方式
+
+浅色、深色、760×540 窗口分别检查首页、对话、设置、项目和弹窗；同时检查键盘操作、可读性、溢出及实际功能。截图必须来自当前构建。功能测试通过不等于设计验收通过。
